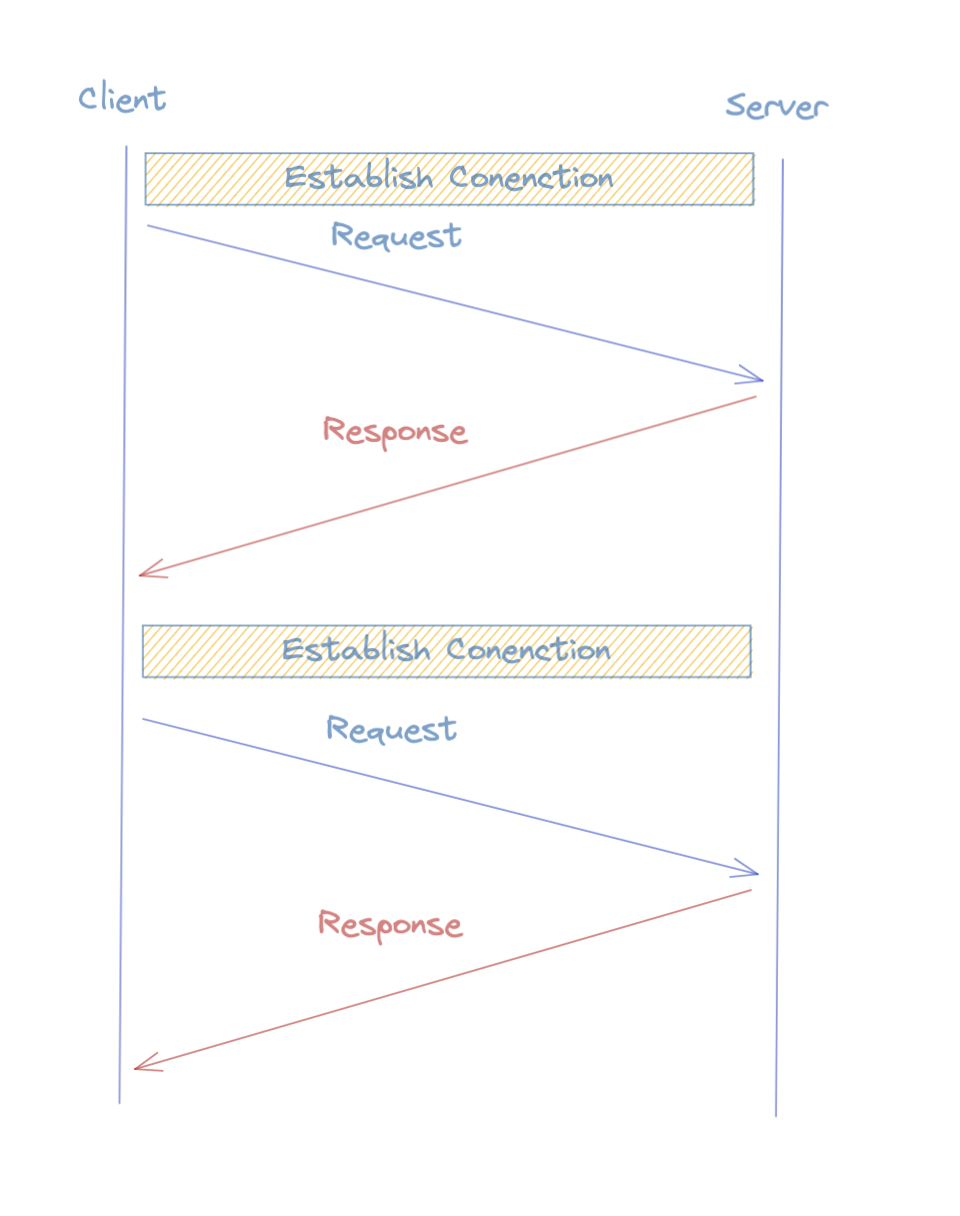
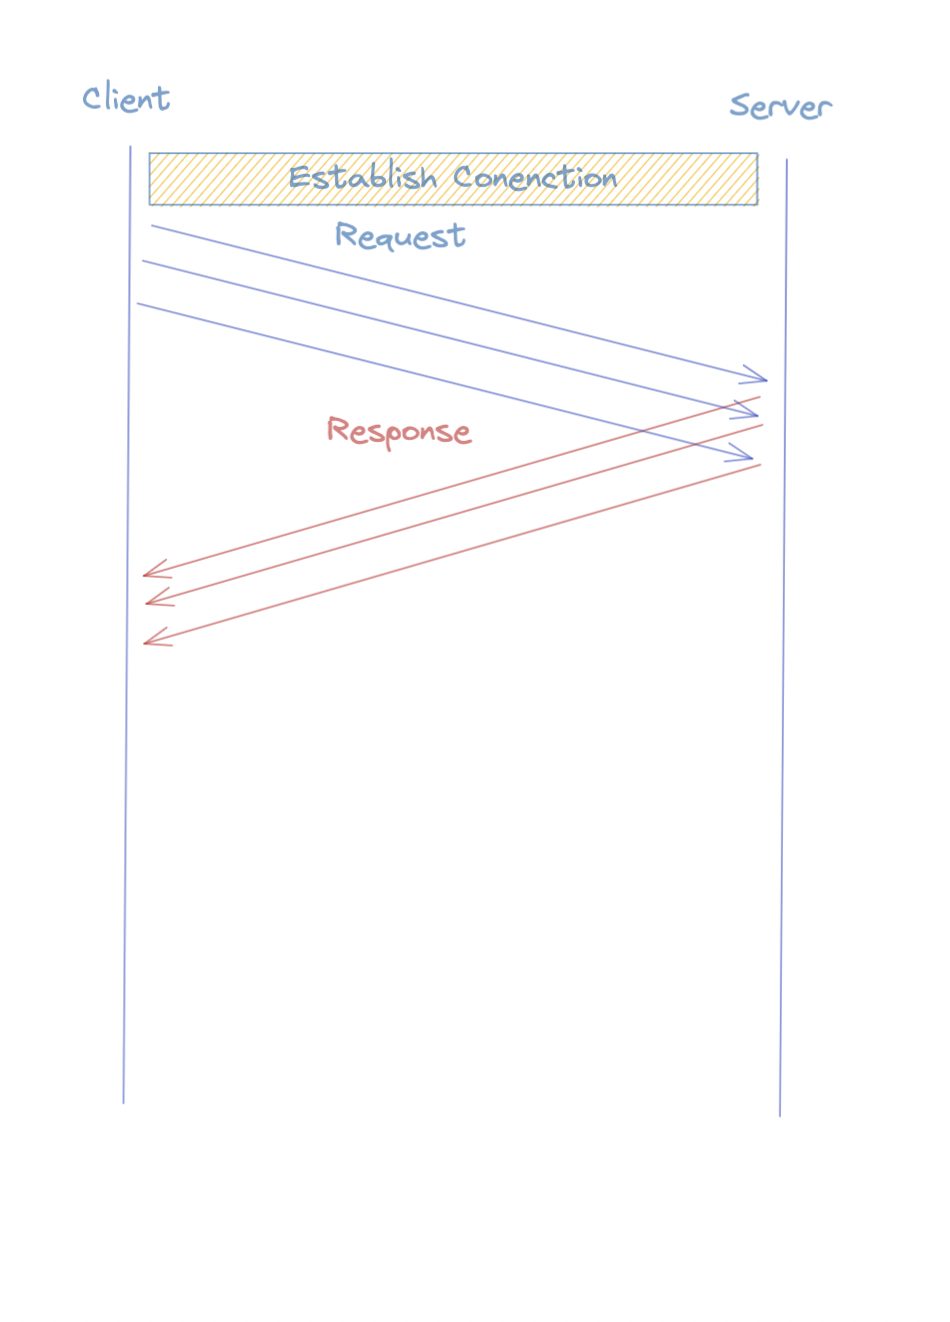
GitBook: [#3] No subject

Changed region(s): [[0.0611, 0.0625, 0.8853, 0.9062], [0.3358, 0.75, 0.4884, 0.7812], [0.3358, 0.5938, 0.4884, 0.625]]

diff --git a/http-pipelining.md b/http-pipelining.md
@@ -4,7 +4,7 @@
 
 HTTP/1.0 에서는 여러개의 Request 와 Response 를 순차적으로 받기 위해 아래와 같은 방식으로 Transaction 에서 요청과 응답을 처리했다.
 
-![](<.gitbook/assets/image (2).png>)
+![](<.gitbook/assets/image (2) (1).png>)
 
 위와 같은 형테이므로 여러건의 요청이 오게됬을때 하나의 과정 (요청을 보내고 응답을 받기까지) 이 마치고 난뒤에야 다음 요청에 대한 과정을 진행할 수 있는 구조였다. 그래서 **여러건의 요청**을 보내야 하는 요청-응답의 구조가 순차적이므로 상황에서는 시간이 오래걸릴수 밖에 없었다.
 
@@ -14,11 +14,18 @@ HTTP/1.0 에서는 여러개의 Request 와 Response 를 순차적으로 받기 
 
 **Persistence Connection(영속적인 연결)** 은 동일 도메인에 대한 요청이 대다수인 웹 브라우저 환경에서 같은 도메인의 대한 연속적인 요청들이 새롭게 **TCP Connection 을 만드는 과정의 오버헤드**를 줄이기 위해 등장했다. (**TCP 는 그리고 기본적으로 Flow Controll 을 하기 때문에 이미 사용된 TCP Connection 를 사용하는 것이 좋다**.) 이는 HTTP/1.1 이전 에도 **Connection Header 에 keep-alive** 설정을 통해 가능하다. 하지만 Dumb Proxy 등의 문제가 발생할 수 있는 여지가 있다. 하지만 **HTTP/1.1 의 경우에는 기본적으로 keep-alive 설정과 같이 지속적인 연결을 기반으로 TCP Connection 이 설립**된다. 단기 커넥션을 이용하고 싶다면 `Connection: close` 헤더를 이용하면 된다.
 
-![](<.gitbook/assets/image (1).png>)
-
-
+<img src=".gitbook/assets/image (3).png" alt="" data-size="original">
 
 ### HTTP/1.1 의 Pipelining
 
+Pipelining 은 HTTP/1.1 이전버전 에서 3개의 요청을 보낼때 **(요청-응답) -> (요청-응답) -> (요청-응답) 의 순차적으로 진행되어 느린 부분**을 성능적으로 개선하기 위해 등장한 방법이다. 다만 HTTP/1.1 의 Pipelining 은 구현의 어려움과 대다수의 프록시서버에서 구현을 안해주는 문제로 대부분의 브라우저에서 기본적으로 활성화되지 않는것으로 알고 있다.&#x20;
 
+일단 HTTP/1.1 의 Pipeline 아키텍쳐는 아래와 같다.
 
+<img src=".gitbook/assets/image (2).png" alt="" data-size="original">&#x20;
+
+Pipelining 을 이용한 방법또한 첫번째로 요청한 요청값에 대한 응답값을 먼져 받도록 설계되어 있으나, **기존처럼 하나의 Request 가 처리되는 동안 다른 Request 를 보내지 못했던 방법보다 Network Latency 가 덜하다**. MDN 문서를 보니 **두개의 요청을 하나의 패킷으로 Packing** 해서 성능적인 향상 또한 있다고 한다. 다만 모든 종류의 HTTP Method 가 Pipelining 방법으로 처리될 수 있는 것은 아니며, **멱등성(idempotent) 를 만족하는 HTTP Method 들에 한해서 Pipelining 이 가능**하다.
+
+### Ref
+
+{% embed url="https://developer.mozilla.org/ko/docs/Web/HTTP/Connection_management_in_HTTP_1.x" %}
